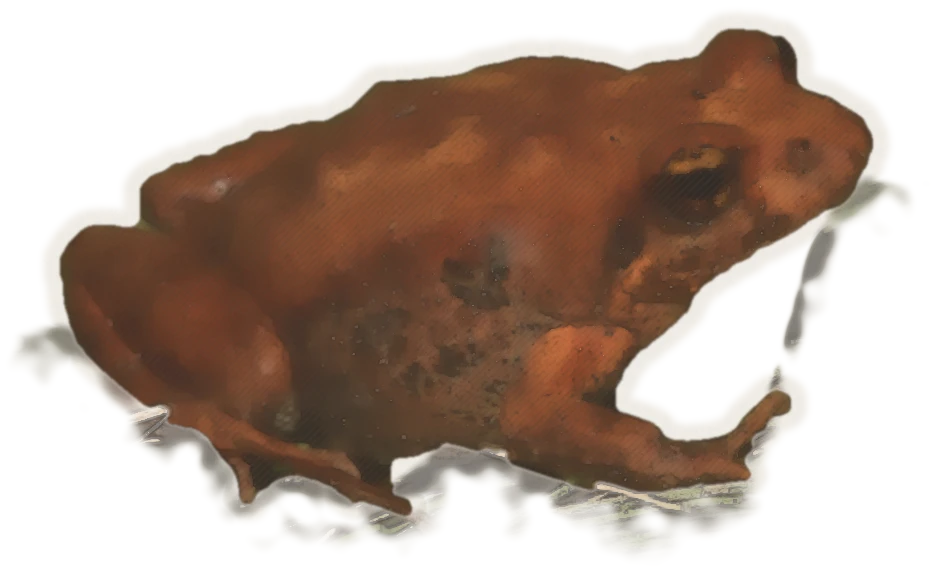
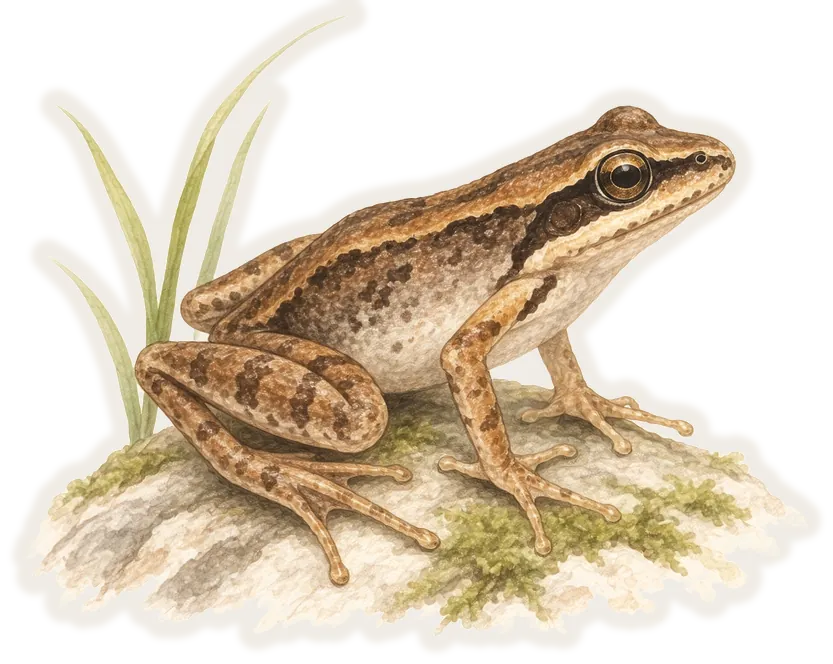
Replace the Boomerang Falls frog plates with watercolour illustrations
The Pouched Frog, Common Eastern Froglet and Cascade Tree Frog plates are now
illustrations made for the site, cut out of their white backgrounds with a
paper halo like the bird plates. scripts/cut_out_illustration.py does the
cut-out. Credits no longer name the photographers of the old photo-based plates.

diff --git a/website/js/species.js b/website/js/species.js
@@ -91,6 +91,6 @@ export function renderSpecies(site, opts = {}) {
     el("p", { class: "credit" },
       "Bird plates: hand-cut 1800s plates by Gould and others, from ",
       el("a", { href: "https://github.com/arnegiacomo/fugleramme" }, "Fugleramme"), " or cut for this site in the same way (CC BY-SA 4.0, ", el("a", { href: "art/birds/CREDITS.md" }, "credits"), "). ",
-      "Frogs: drawn in the same style from photos (CC BY-SA 4.0, ", el("a", { href: "art/frogs/CREDITS.md" }, "credits"), "). ",
+      "Frogs: watercolour illustrations made for this site (", el("a", { href: "art/frogs/CREDITS.md" }, "credits"), "). ",
       birdsWithPlates < site.birds.length ? `${plural(site.birds.length - birdsWithPlates, "bird")} still without a plate.` : ""));
 }

diff --git a/scripts/cut_out_illustration.py b/scripts/cut_out_illustration.py
@@ -1,0 +1,94 @@
+#!/usr/bin/env python3
+"""Cut a species illustration out of its plain background for the species grid.
+
+The grid shows each species as a cut-out plate with a thin halo of plate paper
+around it (see website/art/birds). This takes an illustration painted on a
+plain white or cream sheet and makes the sheet transparent. Faint washes at the
+edge, such as a patch of moss fading out, keep their softness. Then it adds the
+paper halo around the drawing.
+
+    python3 scripts/cut_out_illustration.py frog.png website/art/frogs/crinia-signifera.webp
+
+The file name must be the species' scientific name as a slug. A new species
+also needs its key in website/art/manifest.json and a line in the folder's
+CREDITS.md. Needs numpy, scipy and Pillow.
+"""
+
+from __future__ import annotations
+
+import argparse
+import sys
+from pathlib import Path
+
+import numpy as np
+from PIL import Image
+from scipy import ndimage
+
+PAPER = np.array([240, 236, 229], np.float32)  # #F0ECE5, the halo colour of the plates
+
+
+def main() -> int:
+    parser = argparse.ArgumentParser(description="Cut an illustration out of its plain background, with a paper halo")
+    parser.add_argument("src", help="illustration on a plain white or cream background")
+    parser.add_argument("dest", help="output .webp (or .png)")
+    parser.add_argument("--size", type=int, default=1000, help="long side of the working image in px (default 1000)")
+    parser.add_argument("--halo", type=float, default=16, help="halo width in working px (default 16, as the frog plates)")
+    parser.add_argument("--quality", type=int, default=80, help="WebP quality (default 80)")
+    args = parser.parse_args()
+
+    image = Image.open(args.src).convert("RGB")
+    scale = args.size / max(image.size)
+    if scale < 1:
+        image = image.resize((round(image.width * scale), round(image.height * scale)), Image.LANCZOS)
+    c = np.asarray(image, np.float32)
+    h, w = c.shape[:2]
+
+    # The sheet's colour, from the border.
+    border = np.concatenate([c[:12].reshape(-1, 3), c[-12:].reshape(-1, 3), c[:, :12].reshape(-1, 3), c[:, -12:].reshape(-1, 3)])
+    sheet = np.median(border, axis=0)
+    diff = np.abs(c - sheet).max(axis=2)
+
+    # Paint: fully opaque once clearly off the sheet, fading out with the faint washes.
+    paint = np.clip((diff - 3) / 20, 0, 1)
+
+    # The drawing's outline for the halo: close small gaps, fill enclosed glints
+    # and pale spots, drop specks. Larger openings, such as between the legs, stay open.
+    solid = ndimage.binary_closing(np.pad(diff > 16, 8), np.ones((7, 7), bool))[8:-8, 8:-8]
+    gaps, n = ndimage.label(~solid)
+    if n:
+        sizes = ndimage.sum_labels(np.ones_like(gaps), gaps, np.arange(1, n + 1))
+        at_edge = np.unique(np.concatenate([gaps[0], gaps[-1], gaps[:, 0], gaps[:, -1]]))
+        small = [i + 1 for i, s in enumerate(sizes) if s < 0.004 * h * w and i + 1 not in at_edge]
+        solid |= np.isin(gaps, small)
+    parts, n = ndimage.label(solid)
+    if n:
+        sizes = ndimage.sum_labels(solid, parts, np.arange(1, n + 1))
+        solid = np.isin(parts, 1 + np.flatnonzero(sizes >= 0.0005 * h * w))
+    if not solid.any():
+        print(f"error: found no drawing in {args.src}", file=sys.stderr)
+        return 1
+    halo = ndimage.gaussian_filter((ndimage.distance_transform_edt(~solid) <= args.halo).astype(np.float32), 3.5)
+
+    # Paint over halo: the sheet's white is taken out of the paint, the halo goes under it.
+    a = paint[..., None]
+    paint_rgb = np.clip(c - (1 - a) * sheet, 0, None)  # premultiplied
+    alpha = paint + halo * (1 - paint)
+    rgb = (paint_rgb + halo[..., None] * (1 - a) * PAPER) / np.maximum(alpha, 1e-6)[..., None]
+
+    ys, xs = np.where(alpha > 0.03)
+    y0, y1 = max(0, ys.min() - 6), min(h, ys.max() + 7)
+    x0, x1 = max(0, xs.min() - 6), min(w, xs.max() + 7)
+    out = np.dstack([rgb.clip(0, 255), alpha[..., None] * 255])[y0:y1, x0:x1].round().astype(np.uint8)
+
+    dest = Path(args.dest)
+    plate = Image.fromarray(out, "RGBA")
+    if dest.suffix.lower() == ".webp":
+        plate.save(dest, "WEBP", quality=args.quality, method=6)
+    else:
+        plate.save(dest)
+    print(f"{dest} ({plate.width}x{plate.height}, sheet {sheet.astype(int).tolist()})")
+    return 0
+
+
+if __name__ == "__main__":
+    sys.exit(main())

diff --git a/website/art/frogs/CREDITS.md b/website/art/frogs/CREDITS.md
@@ -1,10 +1,10 @@
 # Frog illustrations
 
-Plate-style renderings made by `scripts/make_frog_plate.py` from the photos below,
-shared under CC BY-SA 4.0. Credit the photographers when reusing them.
+Watercolour illustrations made for Soundscape Atlas, cut out of their white
+background by `scripts/cut_out_illustration.py`.
 
-| File | Species | Photo | Photographer | Photo licence |
-|---|---|---|---|---|
-| assa-darlingtoni.webp | Pouched Frog (*Assa darlingtoni*) | [Wikimedia Commons](https://commons.wikimedia.org/wiki/File:Assa_darlingtoni.jpg) | Hexasoft | CC BY-SA 3.0 |
-| dryopsophus-pearsonianus.webp | Cascade Tree Frog (*Dryopsophus pearsonianus*) | [iNaturalist](https://www.inaturalist.org/photos/584533295) | Greg Tasney | CC BY-SA 4.0 |
-| crinia-signifera.webp | Common Eastern Froglet (*Crinia signifera*) | [Wikimedia Commons](https://commons.wikimedia.org/wiki/File:Common_Froglet_(Crinia_signifera)_(9041134272).jpg) | Matt from Melbourne, Australia | CC BY 2.0 |
+| File | Species |
+|---|---|
+| assa-darlingtoni.webp | Pouched Frog (*Assa darlingtoni*) |
+| crinia-signifera.webp | Common Eastern Froglet (*Crinia signifera*) |
+| dryopsophus-pearsonianus.webp | Cascade Tree Frog (*Dryopsophus pearsonianus*) |
